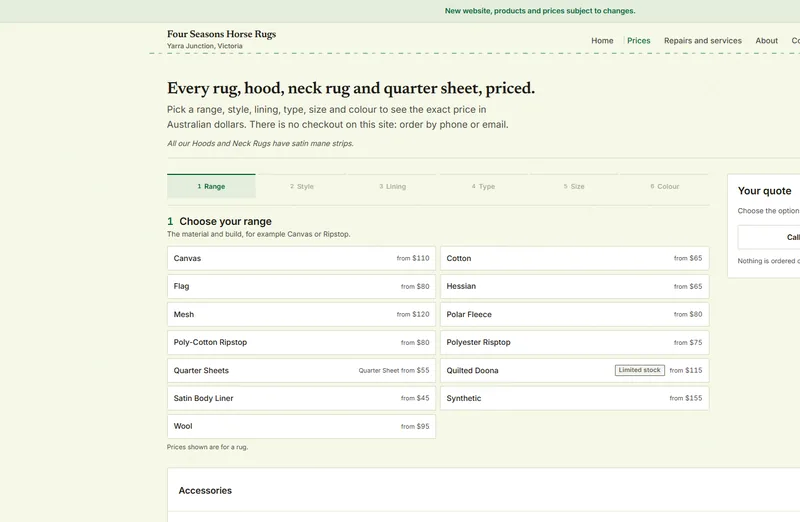
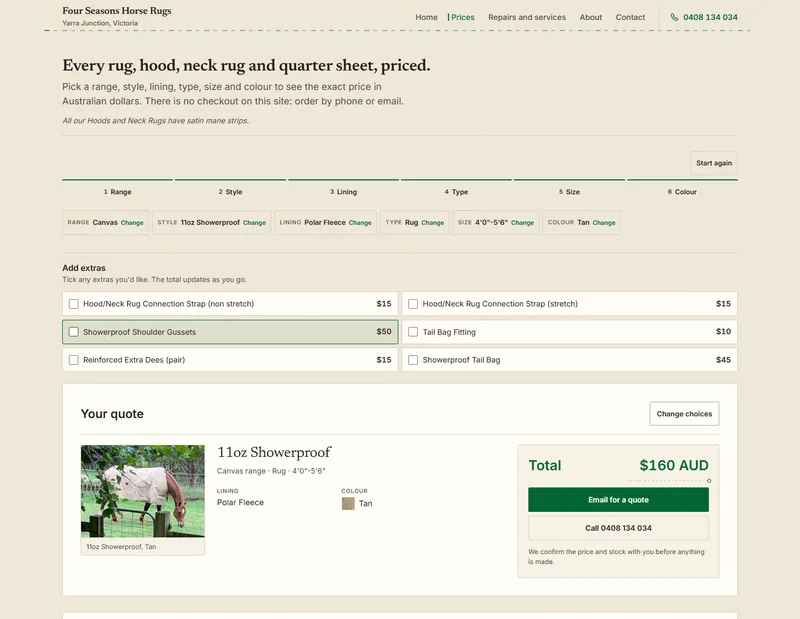
Reshoot the Four Seasons plates at 1440 with nothing clipped

diff --git a/src/content.ts b/src/content.ts
@@ -289,10 +289,10 @@ export const caseStudies: CaseStudy[] = [
         srcSet:
           "/four-seasons-prices-800.webp 800w, /four-seasons-prices-1440.webp 1440w",
         sizes: "(min-width: 900px) 76vw, 100vw",
-        alt: "Four Seasons price builder, headed Every rug, hood, neck rug and quarter sheet, priced.",
+        alt: "Four Seasons price builder, headed Every rug, hood, neck rug and quarter sheet, priced, with a finished quote for a Canvas rug at $160.",
         caption: "Price builder",
         width: 1440,
-        height: 940,
+        height: 1115,
         wide: true,
       },
       {
@@ -303,17 +303,17 @@ export const caseStudies: CaseStudy[] = [
         alt: "Four Seasons Horse Rugs home page, headed Horse rugs, made and repaired in Yarra Junction.",
         caption: "Home page",
         width: 1440,
-        height: 940,
+        height: 1090,
       },
       {
-        src: "/four-seasons-admin-1291.webp",
+        src: "/four-seasons-admin-1440.webp",
         srcSet:
-          "/four-seasons-admin-800.webp 800w, /four-seasons-admin-1291.webp 1291w",
+          "/four-seasons-admin-800.webp 800w, /four-seasons-admin-1440.webp 1440w",
         sizes: "(min-width: 900px) 40vw, 100vw",
-        alt: "Price admin signed in, showing 285 products across 10 ranges with a shop preview beside the list.",
+        alt: "Price admin signed in, listing 285 prices with a range filter and a Change button on every row.",
         caption: "Price admin, signed in",
-        width: 1291,
-        height: 768,
+        width: 1440,
+        height: 900,
       },
     ],
   },

diff --git a/scripts/build-images.py b/scripts/build-images.py
@@ -73,7 +73,7 @@ for name, widths in phones.items():
 screens = {
     "four-seasons-prices": (800, 1440),
     "four-seasons-home": (800, 1440),
-    "four-seasons-admin": (800, 1291),
+    "four-seasons-admin": (800, 1440),
 }
 
 for name, widths in screens.items():
